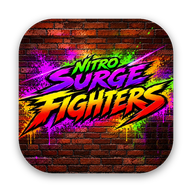
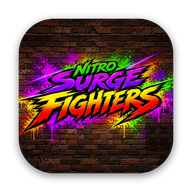
v223: image titre corrigee + icones

diff --git a/index.html b/index.html
@@ -4,8 +4,8 @@
 <meta charset="utf-8">
 <meta name="viewport" content="width=device-width,initial-scale=1,maximum-scale=1,user-scalable=no,viewport-fit=cover">
 <meta name="apple-mobile-web-app-capable" content="yes">
-<link rel="apple-touch-icon" href="icon-180.png?v=4">
-<link rel="icon" type="image/png" href="icon-192.png?v=4">
+<link rel="apple-touch-icon" href="icon-180.png?v=5">
+<link rel="icon" type="image/png" href="icon-192.png?v=5">
 <meta name="mobile-web-app-capable" content="yes">
 <meta name="apple-mobile-web-app-status-bar-style" content="black-translucent">
 <meta name="theme-color" content="#000000">
@@ -19,21 +19,21 @@
 <meta property="og:title" content="Nitro Surge Fighters">
 <meta property="og:description" content="Pixel-art fighting game in your browser. Play on mobile in landscape.">
 <meta property="og:url" content="https://cameleon-ds.github.io/nitro-surge-fighters/">
-<meta property="og:image" content="https://cameleon-ds.github.io/nitro-surge-fighters/og.jpg?v=3">
-<meta property="og:image:secure_url" content="https://cameleon-ds.github.io/nitro-surge-fighters/og.jpg?v=3">
+<meta property="og:image" content="https://cameleon-ds.github.io/nitro-surge-fighters/og.jpg?v=4">
+<meta property="og:image:secure_url" content="https://cameleon-ds.github.io/nitro-surge-fighters/og.jpg?v=4">
 <meta property="og:image:type" content="image/jpeg">
 <meta property="og:image:width" content="1200">
 <meta property="og:image:height" content="630">
 <meta property="og:image:alt" content="Nitro Surge Fighters logo">
 <meta name="twitter:card" content="summary_large_image">
-<meta name="twitter:image" content="https://cameleon-ds.github.io/nitro-surge-fighters/og.jpg?v=3">
-<link rel="manifest" href="manifest.json?v=6">
+<meta name="twitter:image" content="https://cameleon-ds.github.io/nitro-surge-fighters/og.jpg?v=4">
+<link rel="manifest" href="manifest.json?v=7">
 <meta name="apple-mobile-web-app-title" content="Nitro Surge Fighters">
 <meta name="application-name" content="Nitro Surge Fighters">
 <link rel="preconnect" href="https://fonts.googleapis.com">
 <link rel="preconnect" href="https://fonts.gstatic.com" crossorigin>
 <link href="https://fonts.googleapis.com/css2?family=Press+Start+2P&display=swap" rel="stylesheet">
-<link rel="stylesheet" href="style.css?v=222">
+<link rel="stylesheet" href="style.css?v=223">
 </head>
 <body>
 <div id="app">
@@ -68,6 +68,6 @@
 
 <script async src="https://cdnjs.cloudflare.com/ajax/libs/peerjs/1.5.4/peerjs.min.js"></script>
 <script async src="https://cdnjs.cloudflare.com/ajax/libs/qrcode-generator/1.4.4/qrcode.min.js"></script>
-<script src="game.js?v=222"></script>
+<script src="game.js?v=223"></script>
 </body>
 </html>

diff --git a/game.js b/game.js
@@ -4,7 +4,7 @@
    ========================================================= */
 'use strict';
 (() => {
-const VERSION = 'v222';
+const VERSION = 'v223';
 
 let W = 384; const H = 216, GROUND = 190, GRAV = 0.34;
 let CX = 192; // centre horizontal
@@ -5348,7 +5348,7 @@ function drawPause() {
 const LOGO = new Image();
 LOGO.src = 'logo.png?v=25';
 const TITLE_IMG = new Image();
-TITLE_IMG.src = 'title.jpg?v=221';
+TITLE_IMG.src = 'title.jpg?v=223';
 function drawCover(img, al, sc = 1, dy = 0) {   // image plein écran (recadrée)
   if (!img.complete || !img.naturalWidth) return;
   const k = Math.max(W / img.naturalWidth, H / img.naturalHeight) * sc, w = img.naturalWidth * k, h = img.naturalHeight * k;
